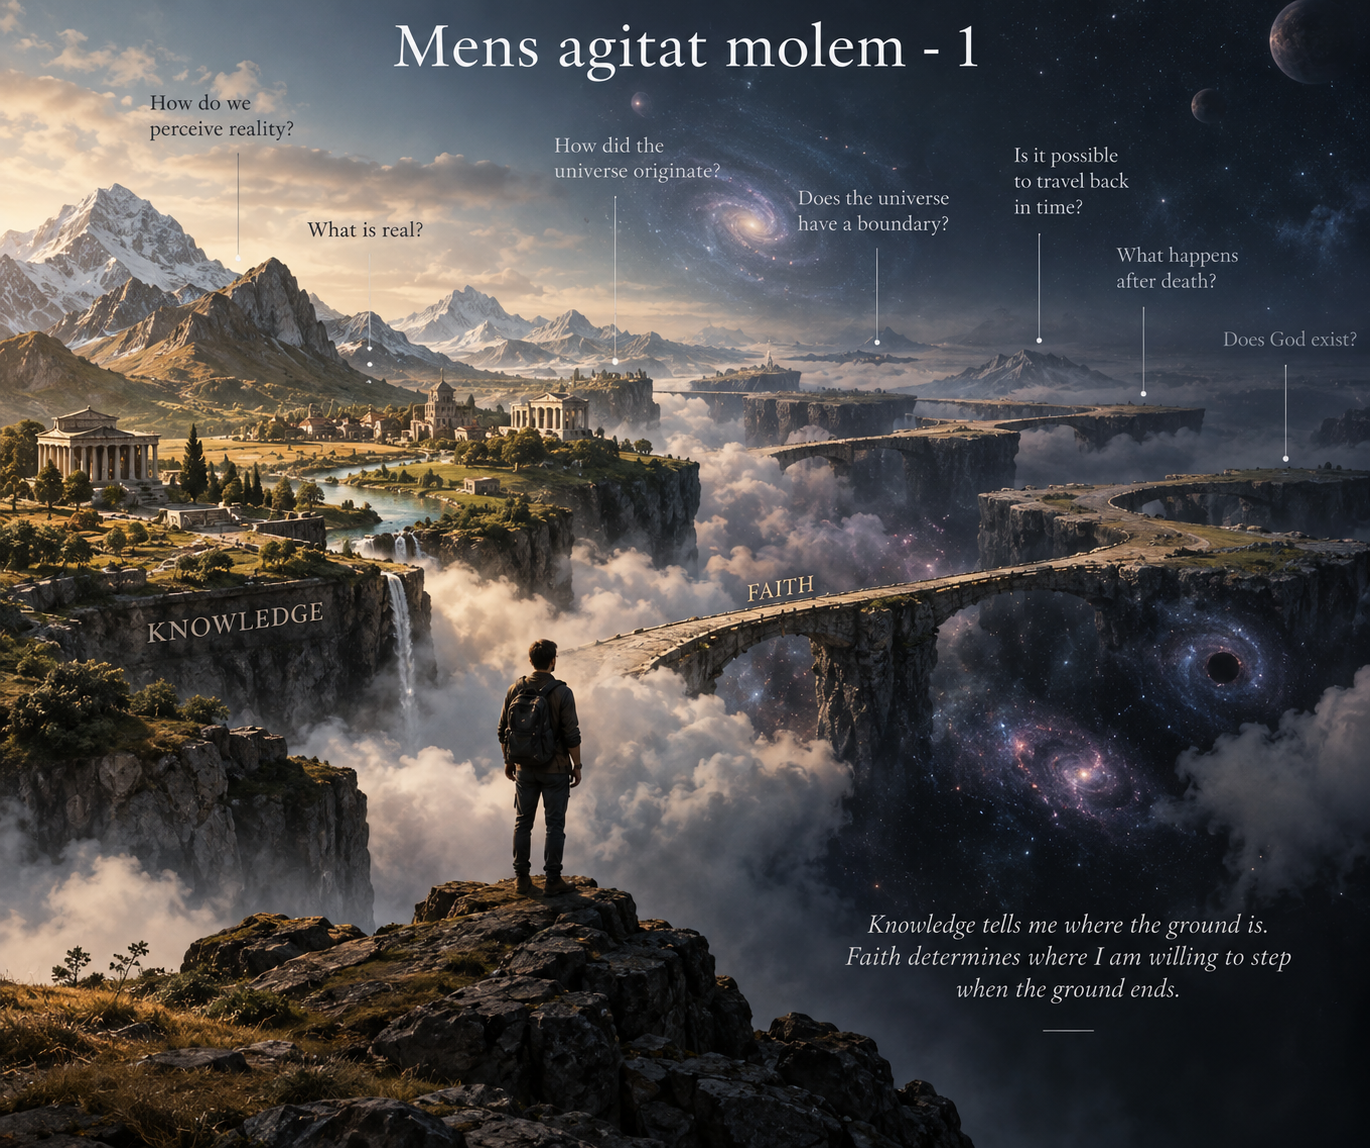
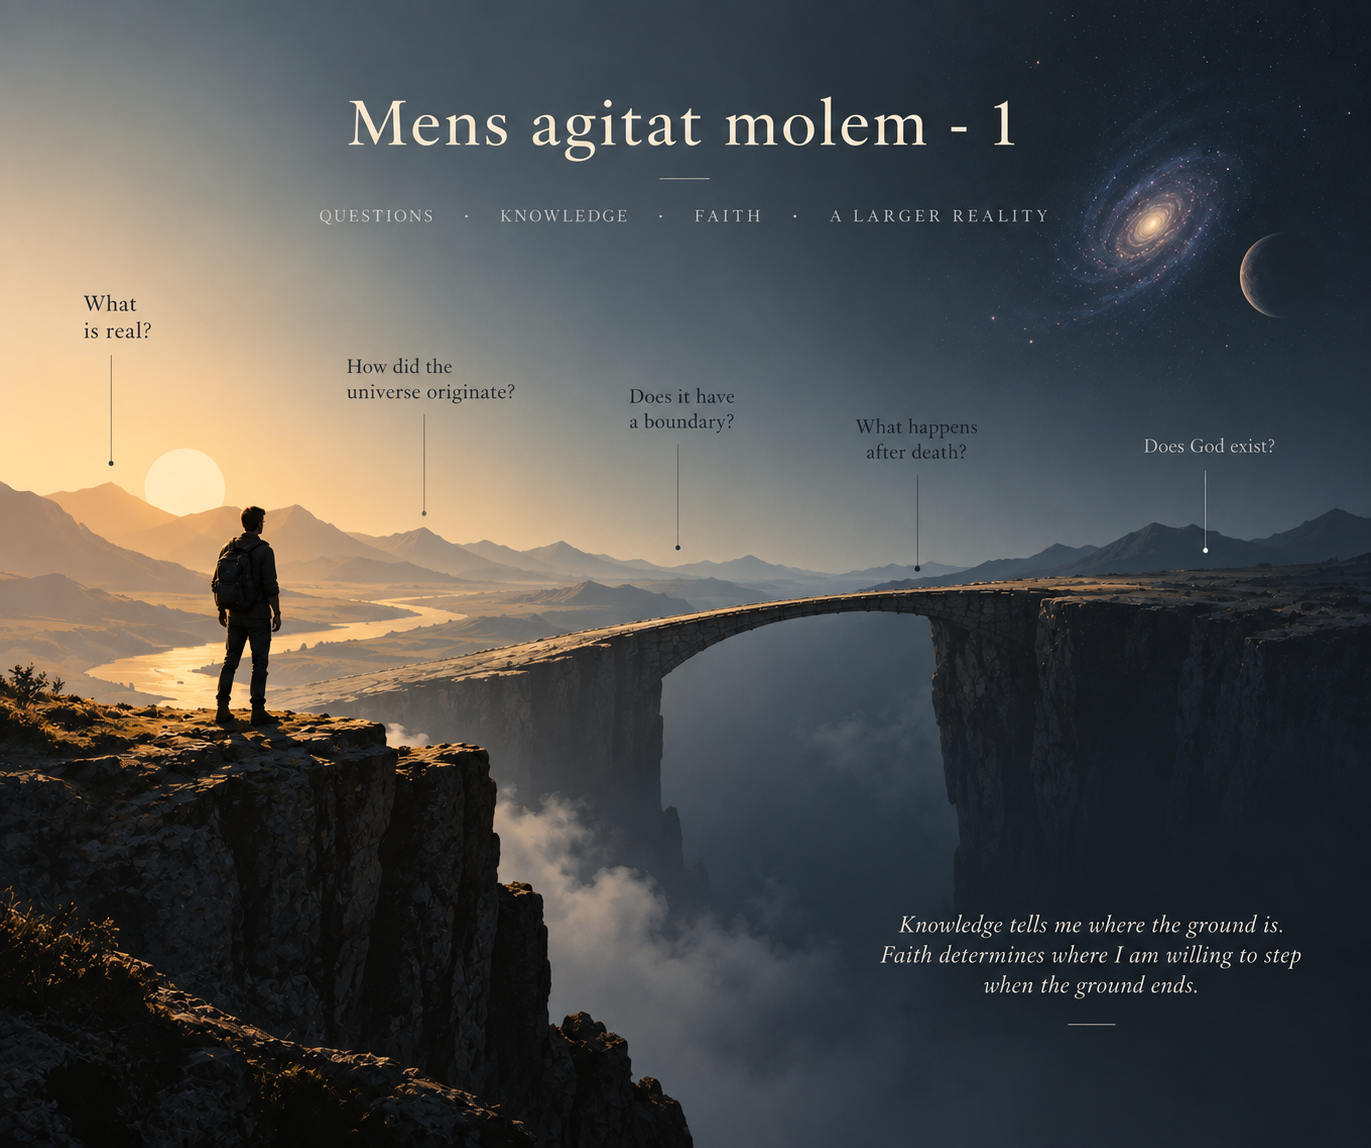
Place article image after opening paragraph

diff --git a/src/content/writing/mens-agitat-molem-1.md b/src/content/writing/mens-agitat-molem-1.md
@@ -6,11 +6,12 @@ tags:
   - Philosophy
   - Psychology
   - Notes
-image: "/images/writing/mens-agitat-molem-1.png"
 draft: false
 ---
 
 How do we perceive reality? How can we say that something is real? What, truly, is reality? It is a fascinating realm of questions, and one can easily get lost in it. So perhaps it is better to begin with something easier: how do we perceive something tangible? We perceive the world through our senses. I can see, hear, touch, smell, and taste (though I keep Descartes's perspective on hallucinations in mind). Still, when I claim to know something about the physical world, observation gives me the most solid ground available to me. I can know that gravity exists and prove it with concrete evidence. I can know the boiling point of water and provide tangible proof through experimentation.
+
+![Mens agitat molem](/mustafabarak/images/writing/mens-agitat-molem-1.png)
 
 As I attempt to understand the universe, I ask questions and construct a mental world from the answers I find. Imagine a reality world in your mind: ask some questions to the universe and with the answers create mountains, farms, rivers. Some answers are supported by observation, measurement, and evidence. They form patches of solid ground on my mental map. The answers backed by concrete evidence form the solid ground of this world.
 
